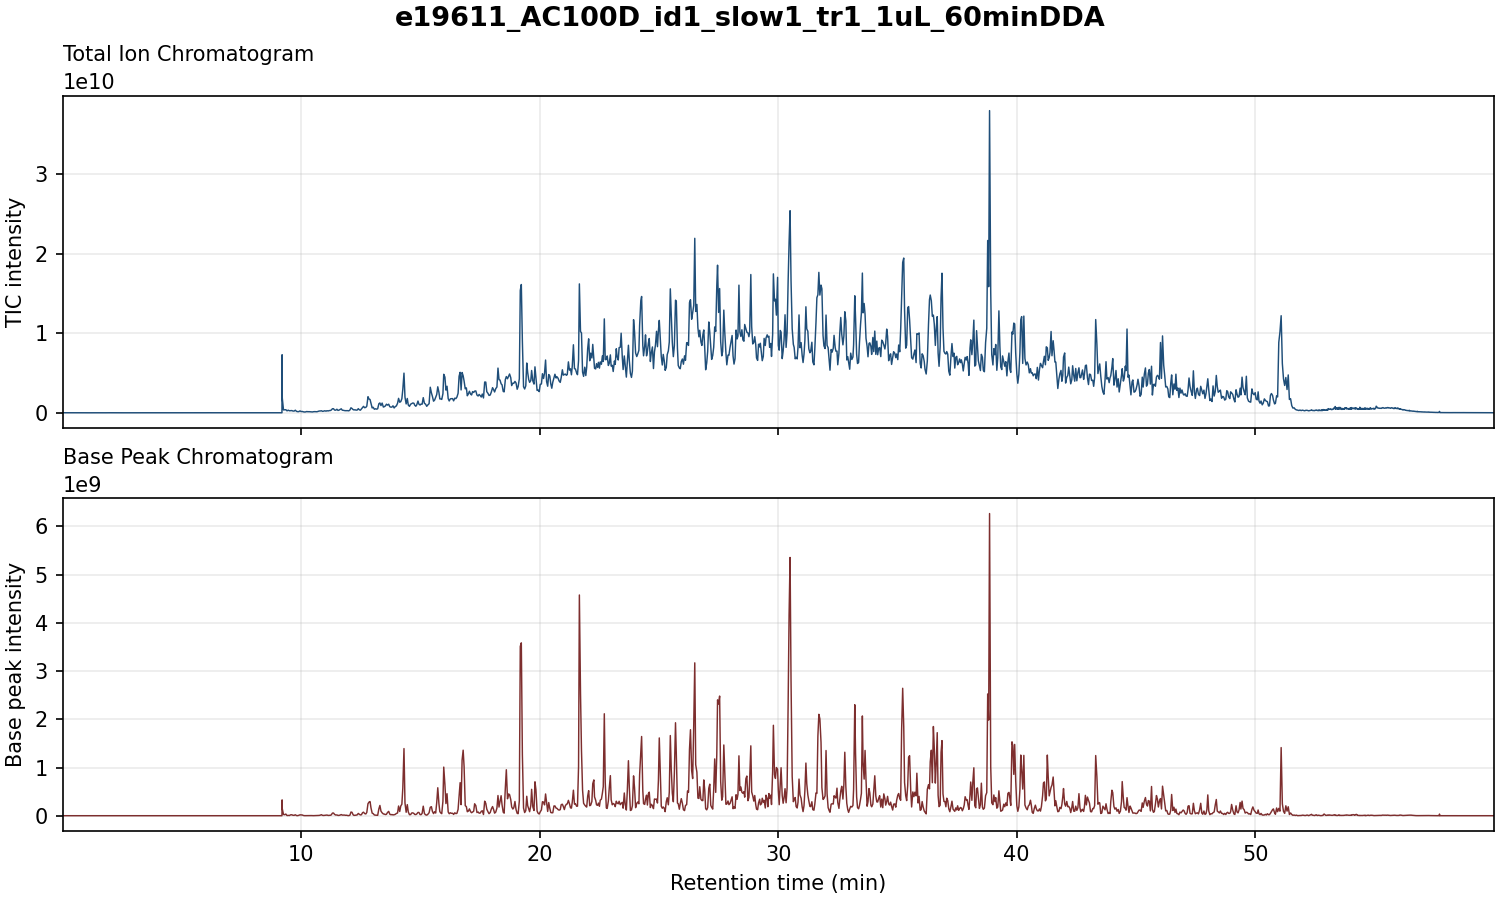
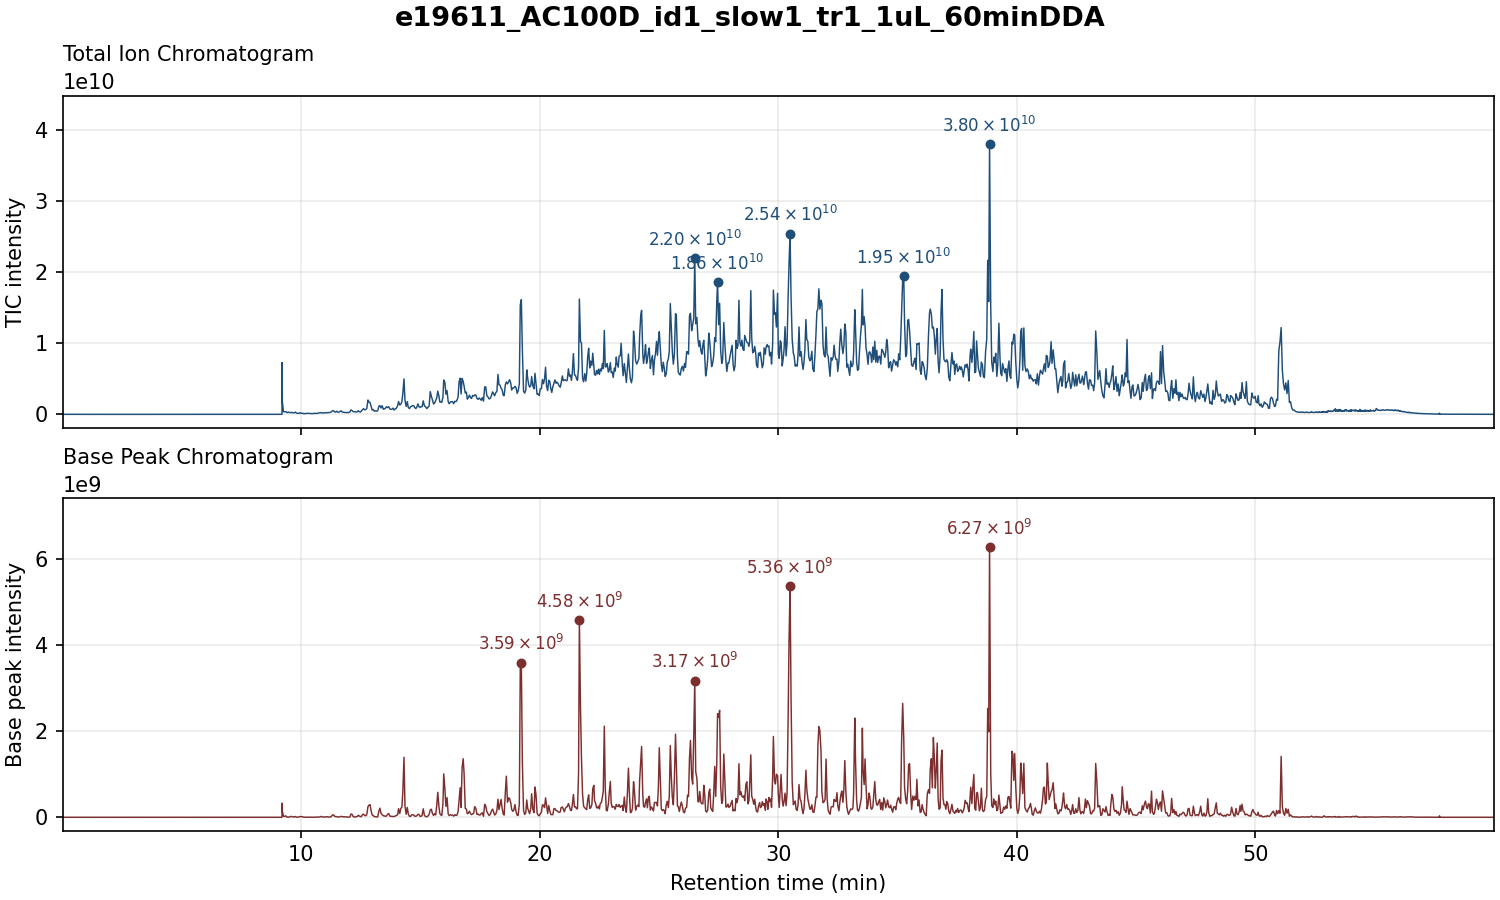
Label the N most abundant peaks per panel with their intensity
Each of the TIC and base-peak panels now marks its most abundant peaks with a dot
and the intensity in scientific notation (mathtext superscripts). top_peaks()
greedily takes the highest points while enforcing a minimum retention-time gap
(1% of the RT span) so that several scans straddling one apex aren't labelled as
separate peaks. Count is configurable via render_png(n_peak_labels=...) and the
new --peak-labels CLI flag (default 5, 0 disables); a little y-axis headroom is
added so the top label isn't clipped.

Adds tests for top_peaks (top-n, separation, fewer-than-n, empty) and the
--peak-labels passthrough. Refreshes docs/example.png to show the labels.

diff --git a/src/raw_to_png/core.py b/src/raw_to_png/core.py
@@ -24,6 +24,64 @@ import matplotlib.pyplot as plt  # noqa: E402  (must follow matplotlib.use)
 TIC_COLOR = "#1f4e79"  # dark blue
 BPC_COLOR = "#7d2e2e"  # dark red
 
+# How many of the most abundant peaks to label, and how far apart (as a fraction
+# of the retention-time span) two labelled peaks must be so we don't tag several
+# adjacent scans of the same peak.
+DEFAULT_PEAK_LABELS = 5
+PEAK_MIN_SEP_FRAC = 0.01
+
+
+def top_peaks(rt, y, n=DEFAULT_PEAK_LABELS, min_sep_frac=PEAK_MIN_SEP_FRAC):
+    """Return indices of the ``n`` most abundant, well-separated peaks.
+
+    Greedy: take the highest point, then the next-highest that is at least
+    ``min_sep_frac`` of the RT span away from every point already chosen, and so
+    on. This keeps the picks on *distinct* chromatographic peaks rather than
+    several scans straddling one apex. Returned indices are sorted by RT.
+    """
+    if y.size == 0:
+        return np.array([], dtype=int)
+    span = float(rt.max() - rt.min())
+    min_sep = min_sep_frac * span if span > 0 else 0.0
+
+    chosen = []
+    for idx in np.argsort(y)[::-1]:  # highest intensity first
+        if len(chosen) >= n:
+            break
+        if all(abs(rt[idx] - rt[c]) >= min_sep for c in chosen):
+            chosen.append(int(idx))
+    return np.array(sorted(chosen), dtype=int)
+
+
+def _sci_label(v):
+    """Format an intensity as mathtext scientific notation, e.g. 3.80x10^10."""
+    if v <= 0:
+        return "0"
+    exp = int(np.floor(np.log10(v)))
+    mant = v / 10**exp
+    return rf"${mant:.2f}\times10^{{{exp}}}$"
+
+
+def _annotate_top_peaks(ax, rt, y, color, n=DEFAULT_PEAK_LABELS):
+    """Mark and label the n most abundant peaks with their intensity."""
+    if n <= 0 or y.size == 0:
+        return
+    idx = top_peaks(rt, y, n=n)
+    ax.scatter(rt[idx], y[idx], s=14, color=color, zorder=5)
+    for i in idx:
+        ax.annotate(
+            _sci_label(y[i]),
+            xy=(rt[i], y[i]),
+            xytext=(0, 4),
+            textcoords="offset points",
+            ha="center",
+            va="bottom",
+            fontsize=8,
+            color=color,
+        )
+    # Headroom so the topmost label isn't clipped by the axes.
+    ax.set_ylim(top=float(y.max()) * 1.18)
+
 
 def extract_chromatograms(reader, ms_level=1):
     """Return ``(rt, tic, bpc)`` numpy arrays from an already-open reader.
@@ -86,8 +144,11 @@ def get_chromatograms(raw_path, ms_level=1):
         reader.dispose()
 
 
-def render_png(raw_path, out_dir, ms_level=1, dpi=200):
+def render_png(raw_path, out_dir, ms_level=1, dpi=200, n_peak_labels=DEFAULT_PEAK_LABELS):
     """Render a 2-panel (TIC / base peak) PNG for one .RAW file.
+
+    The ``n_peak_labels`` most abundant peaks in each panel are marked and
+    labelled with their intensity in scientific notation (0 disables labelling).
 
     Returns the output path, or ``None`` if no scans matched ``ms_level``.
     """
@@ -117,6 +178,10 @@ def render_png(raw_path, out_dir, ms_level=1, dpi=200):
     for ax in (ax_tic, ax_bpc):
         ax.margins(x=0)
         ax.grid(True, alpha=0.25)
+
+    # Label the most abundant peaks in each panel.
+    _annotate_top_peaks(ax_tic, rt, tic, TIC_COLOR, n=n_peak_labels)
+    _annotate_top_peaks(ax_bpc, rt, bpc, BPC_COLOR, n=n_peak_labels)
 
     out_dir = Path(out_dir)
     out_dir.mkdir(parents=True, exist_ok=True)  # gitignored; absent on fresh clone

diff --git a/tests/test_core.py b/tests/test_core.py
@@ -3,7 +3,7 @@
 import numpy as np
 
 from raw_to_png import core
-from raw_to_png.core import extract_chromatograms, render_png
+from raw_to_png.core import extract_chromatograms, render_png, top_peaks
 
 from conftest import FakeReader
 
@@ -39,6 +39,36 @@ def test_uses_enum_value_not_int(mixed_scans):
     # FakeMsOrder is not an int; int() on it would raise, so a passing run proves
     # the production code compares .value.
     extract_chromatograms(FakeReader(mixed_scans), ms_level=1)
+
+
+def test_top_peaks_picks_highest_separated():
+    rt = np.arange(0, 10, dtype=float)
+    y = np.array([1, 9, 2, 3, 8, 1, 7, 2, 6, 1], dtype=float)
+    # min_sep_frac=0 means no separation constraint -> pure top-n by height.
+    idx = top_peaks(rt, y, n=3, min_sep_frac=0.0)
+    assert list(idx) == sorted([1, 4, 6])  # the 9, 8, 7
+    # Returned indices are sorted by retention time.
+    assert list(idx) == sorted(idx)
+
+
+def test_top_peaks_enforces_separation():
+    rt = np.arange(0, 10, dtype=float)  # span 9
+    # Two tall adjacent scans (idx 4,5) belong to one peak; separation should
+    # keep only the taller of the pair, then move to the next distinct peak.
+    y = np.array([1, 1, 1, 1, 10, 9, 1, 1, 8, 1], dtype=float)
+    idx = top_peaks(rt, y, n=2, min_sep_frac=0.3)  # min_sep = 2.7 min
+    assert list(idx) == [4, 8]  # not 4 and 5
+
+
+def test_top_peaks_fewer_than_n():
+    rt = np.array([0.0, 1.0])
+    y = np.array([5.0, 3.0])
+    assert list(top_peaks(rt, y, n=5)) == [0, 1]
+
+
+def test_top_peaks_empty():
+    empty = np.asarray([])
+    assert top_peaks(empty, empty, n=5).size == 0
 
 
 def test_render_png_writes_file(tmp_path, monkeypatch):

diff --git a/tests/test_cli.py b/tests/test_cli.py
@@ -32,7 +32,7 @@ def test_main_ms_level_0_maps_to_none(tmp_path, monkeypatch):
     (tmp_path / "x.raw").touch()
     captured = {}
 
-    def fake_render(raw, out_dir, ms_level=1, dpi=200):
+    def fake_render(raw, out_dir, ms_level=1, dpi=200, n_peak_labels=5):
         captured["ms_level"] = ms_level
         return None
 
@@ -48,7 +48,7 @@ def test_main_one_bad_raw_does_not_abort_batch(tmp_path, monkeypatch):
         (tmp_path / n).touch()
     seen = []
 
-    def fake_render(raw, out_dir, ms_level=1, dpi=200):
+    def fake_render(raw, out_dir, ms_level=1, dpi=200, n_peak_labels=5):
         seen.append(raw.name)
         if raw.name == "bad.raw":
             raise RuntimeError("boom")
@@ -64,3 +64,17 @@ def test_parser_defaults():
     args = build_parser().parse_args(["--in", "i", "--out", "o"])
     assert args.ms_level == 1
     assert args.dpi == 200
+    assert args.peak_labels == 5
+
+
+def test_main_peak_labels_passed_through(tmp_path, monkeypatch):
+    (tmp_path / "x.raw").touch()
+    captured = {}
+
+    def fake_render(raw, out_dir, ms_level=1, dpi=200, n_peak_labels=5):
+        captured["n_peak_labels"] = n_peak_labels
+        return None
+
+    monkeypatch.setattr(cli, "render_png", fake_render)
+    main(["--in", str(tmp_path), "--out", str(tmp_path / "out"), "--peak-labels", "3"])
+    assert captured["n_peak_labels"] == 3

diff --git a/src/raw_to_png/cli.py b/src/raw_to_png/cli.py
@@ -4,7 +4,7 @@ import argparse
 import sys
 from pathlib import Path
 
-from raw_to_png.core import render_png
+from raw_to_png.core import DEFAULT_PEAK_LABELS, render_png
 
 
 def find_raw_files(in_dir):
@@ -30,6 +30,9 @@ def build_parser():
     p.add_argument("--ms-level", type=int, default=1,
                    help="MS order to plot (1=MS1, default). Use 0 for all scans.")
     p.add_argument("--dpi", type=int, default=200, help="Output PNG resolution")
+    p.add_argument("--peak-labels", type=int, default=DEFAULT_PEAK_LABELS,
+                   help="Label the N most abundant peaks per panel with their "
+                        "intensity (default 5). Use 0 to disable.")
     return p
 
 
@@ -51,7 +54,8 @@ def main(argv=None):
     for raw in raw_files:
         print(f"Processing {raw.name}")
         try:
-            render_png(raw, out_dir, ms_level=ms_level, dpi=args.dpi)
+            render_png(raw, out_dir, ms_level=ms_level, dpi=args.dpi,
+                       n_peak_labels=args.peak_labels)
         except Exception as e:  # fail-soft: one bad .RAW must not abort the batch
             print(f"  ! failed on {raw.name}: {e}")
 

diff --git a/src/raw_to_png/__init__.py b/src/raw_to_png/__init__.py
@@ -1,7 +1,18 @@
 """raw_to_png — render TIC and base-peak chromatogram PNGs from Thermo .RAW files."""
 
-from raw_to_png.core import extract_chromatograms, get_chromatograms, render_png
+from raw_to_png.core import (
+    extract_chromatograms,
+    get_chromatograms,
+    render_png,
+    top_peaks,
+)
 
 __version__ = "0.1.0"
 
-__all__ = ["extract_chromatograms", "get_chromatograms", "render_png", "__version__"]
+__all__ = [
+    "extract_chromatograms",
+    "get_chromatograms",
+    "render_png",
+    "top_peaks",
+    "__version__",
+]

diff --git a/README.md b/README.md
@@ -66,6 +66,12 @@ raw-to-png --in . --out .\out --ms-level 0 --dpi 300
 | `--out`      | —       | Output directory for PNGs, created if absent (required) |
 | `--ms-level` | `1`     | MS order to plot (1 = MS1). **`0` = all scans.**     |
 | `--dpi`      | `200`   | Output PNG resolution                                |
+| `--peak-labels` | `5`  | Label the N most abundant peaks per panel with their intensity. **`0` disables.** |
+
+The N most abundant, well-separated peaks in each panel are marked with a dot and
+labelled with their intensity in scientific notation. "Well-separated" means peaks
+must be at least 1 % of the retention-time span apart, so several scans straddling
+one apex aren't all labelled as separate peaks.
 
 The batch is **fail-soft**: a bad `.RAW` is logged and skipped without aborting
 the rest. A file with no scans at the requested MS level is skipped with a warning.
